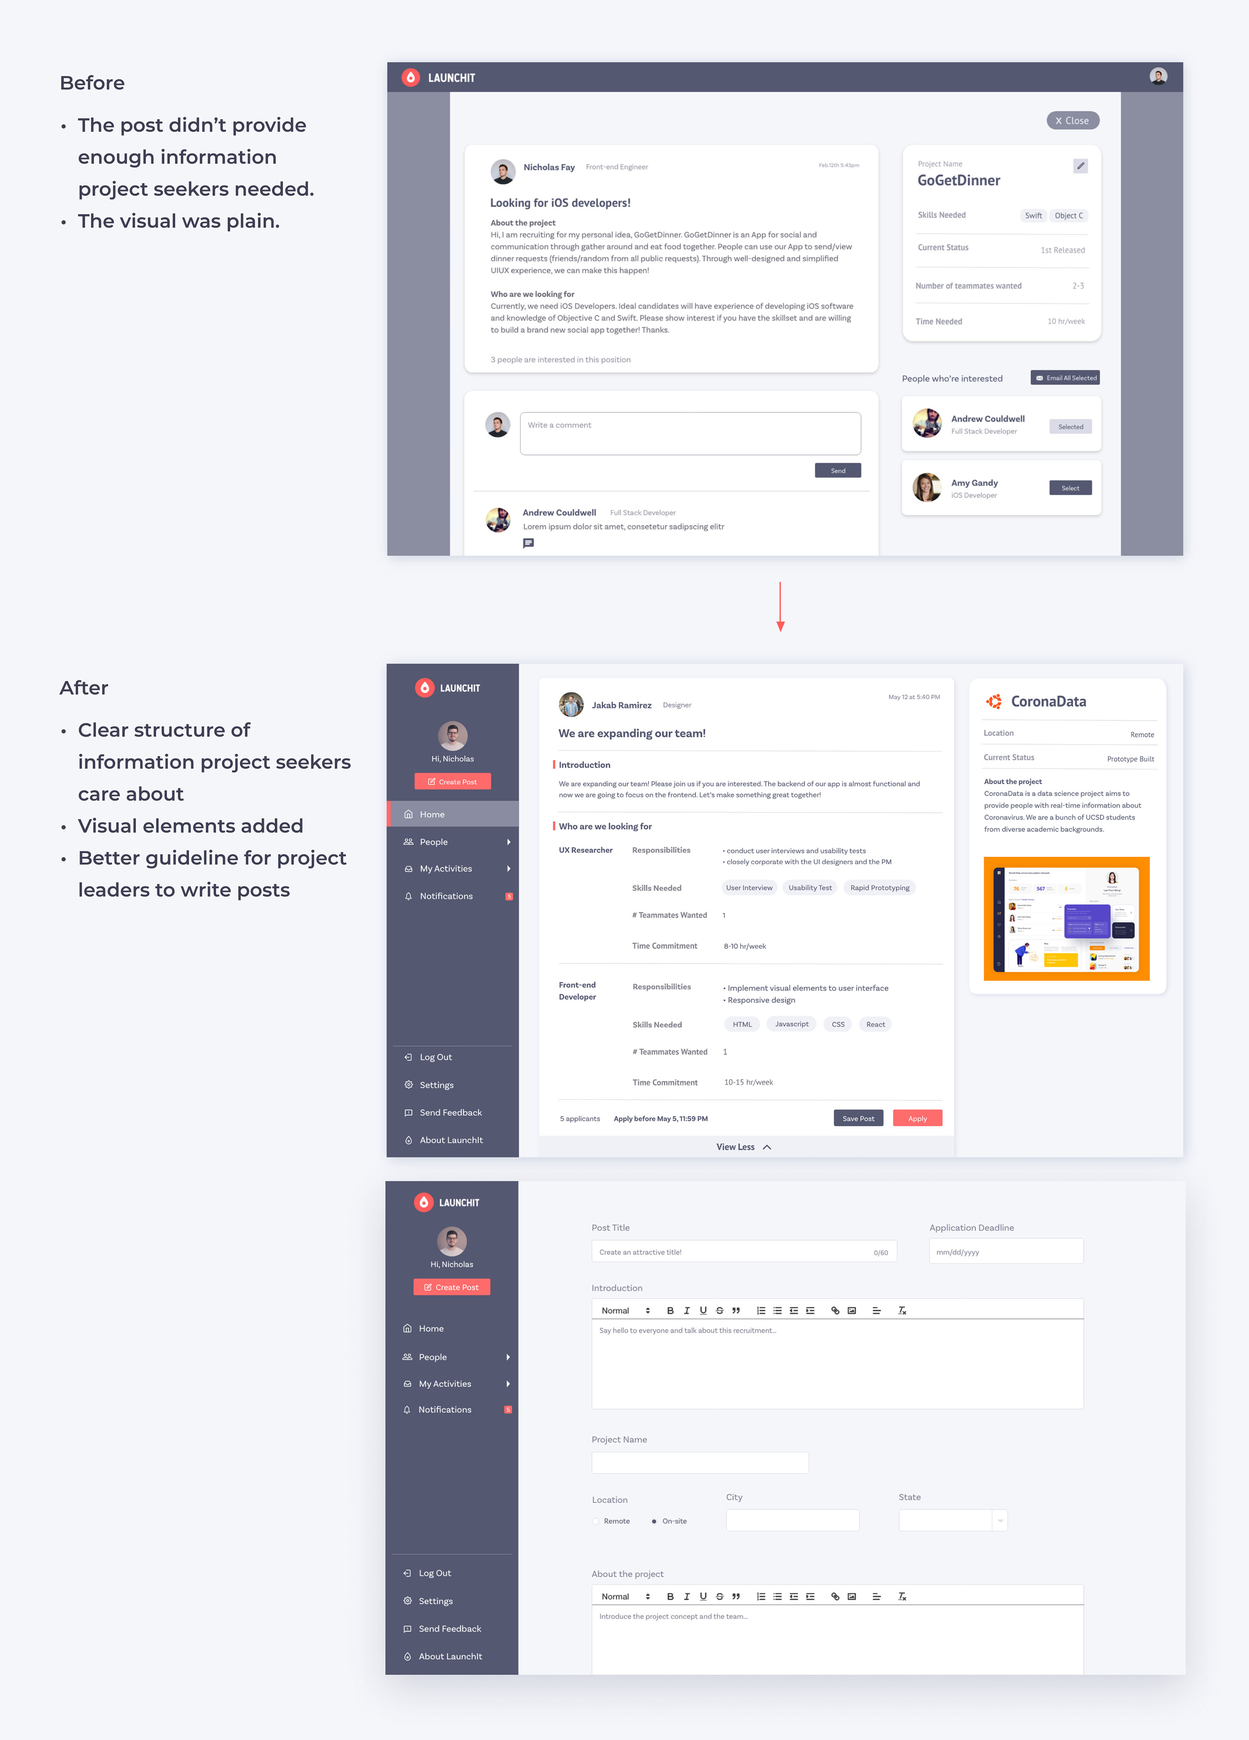
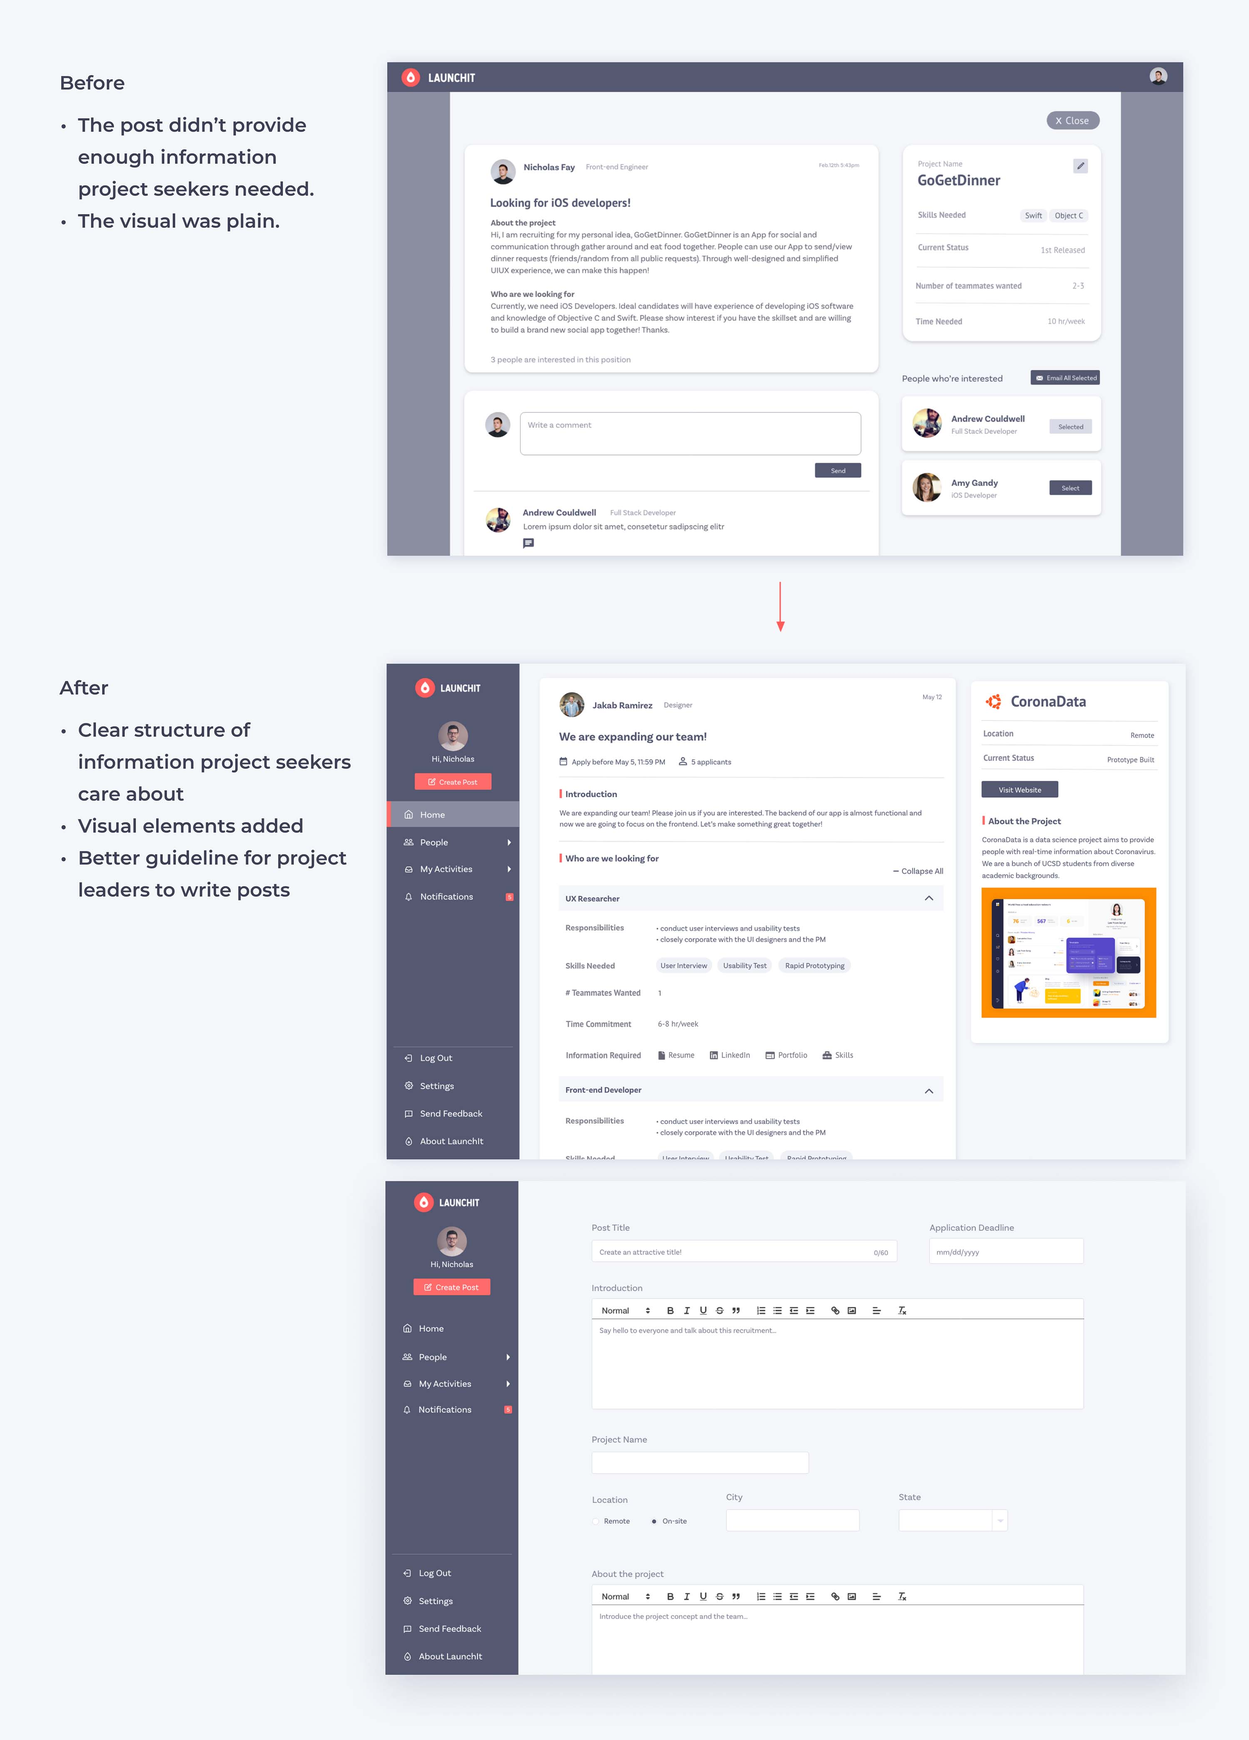
launchit and alpha updated

diff --git a/launchit.html b/launchit.html
@@ -137,7 +137,7 @@
 
                     <div class="block">
                         <p id="section-title">user interviews</p>
-                        <h2 id="subtitle2">Problems faced by college students</h2>
+                        <h2 id="subtitle2">Learn about our target users</h2>
                         <p>I worked with my fellow designer to interview 6 college students with different academic backgrounds, asking about their decision-making process when seeking projects to join or recruiting people for their projects. We also asked them to explore LaunchIt and provide feedback so we could start with minor design changes.</p>
                         <img src="image/launchit_user_interview.jpg" alt="interview findings" width="100%">
                     </div>
@@ -152,7 +152,7 @@
 
                     <div class="block">
                         <p id="section-title">usability tests</p>
-                        <h2 id="subtitle2">Research goals</h2>
+                        <h2 id="subtitle2">Set the research goals</h2>
                         <p>To further understand the gap between users' goals and our initial design, we decided to conduct usability tests. We set up three research goals:</p>
                         <ul>
                             <li>Is the user flow intuitive? </li>
@@ -170,50 +170,55 @@
                         <img src="image/launchit_task_priority.jpg" alt="effort vs impact matrix and process tracking" width="100%" style="padding-top: 0; margin-bottom: 0;">
                     </div>
 
+                    
                     <div class="block">
                         <p id="section-title">usability tests</p>
                         <h2 id="subtitle2">Turn insights into decisions</h2>
-                    </div>
-                    
-                    <img class="mx-auto d-block small-img" src="image/launchit_p1.jpg" alt="ui">
-                    <div class="block">
-                        <p>There are two navigation bars in the original version, one on the top and one on the left. We found that having two navigation bars distracted users during the usability tests, so we decided to put all navigation components on one side bar. We designed at least 5 versions of navigation bars and conducted mini usability tests to find out which one is the most intuitive. I realized that users’ conceptual models on navigation are very different from mine since many users favored the version that I didn’t think would work at first.</p>
-                        <br>
-                        <img src="image/launchit_nav.jpg" alt="iterated on navigation" width="100%">
-                    </div>
-                    
 
-                    <img class="mx-auto d-block small-img" src="image/launchit_p2.jpg" alt="ui">
-                    <div class="block">
-                        <p>When signing up for the first time, users are only asked to fill out some basic information. At the last step of signing up, they have the freedom to choose to either complete their profiles or skip this part for now. If they choose to skip, the system will later encourage them to complete profiles when they apply for project positions. The profile page also shows their level of completion to increase their motivation.</p>
-                        <br>
-                        <img src="image/launchit_profile.jpg" alt="user profile" width="100%">
-                    </div>
-                    
-
-                    <img class="mx-auto d-block small-img" src="image/launchit_p3.jpg" alt="ui">
-                    <div class="block">
-                        <p>We reorganized the page of post details by clearly dividing project information and recruitment information into two cards. Readers can easily find all available positions under this project and their corresponding responsibilities and qualifications. In response to user needs, we also guide post creators to list out the duties of each position using bullet points rather than inputting big chunks of paragraphs that are less readable. In addition, they can add project logos and images to introduce their projects and teams better.</p>
-                        <br>
-                        <img src="image/launchit_post.jpg" alt="findings" width="100%">
-                    </div>
-                    
-                    
-
-                    <img class="mx-auto d-block small-img" src="image/launchit_p4.jpg" alt="ui">
-                    <div class="block">
-                        <p>Project recruitment used to be considerably complex, as project leaders needed to employ different tools during the process, such as Google Form, Facebook, and Excel. We created a function for project leaders to manage applicants on one page. They can see all applicants’ information on this page from the applicant list. They can modify their application status and contact them via email. Click on a title in the first row, and the system will reorder the list based on that title.</p>
-                        <br>
-                        <img src="image/launchit_phase3_4.jpg" alt="findings" width="100%">
-                    </div>
-
-                    <img class="mx-auto d-block small-img" src="image/launchit_p5.jpg" alt="ui">
-                    <div class="block">
-                        <p>The first-time users could not get what LuanchIt was for immediately. The PM suggested adding a documentation to introduce all functions of LaunchIt, but I believed that users wouldn't have patience to read through it. Therefore, I designed a concise and eye-catching introduction to the key features and a short step-by-step tutorial.</p>
+                        <p><b id="toogether-highlight">&#128064; Finding 1:</b></p>
+                        <p>The first-time users could not get what LuanchIt was for immediately.  </p>
+                        <p><b id="toogether-highlight">&#128161; Solution 1:</b></p>
+                        <p>The PM suggested adding documentation to introduce all functions of LaunchIt, but I believed that users wouldn't have the patience to read through it. Therefore, I designed a concise and eye-catching introduction to the key features and a short step-by-step tutorial.</p>
                         <br>
                         <img src="image/launchit_feature_0.jpg" alt="onboarding ui" width="100%">
                         <img src="image/launchit_tutorial.jpg" alt="tutorial ui" width="100%">
+                        
+                        <br><br><br>
+                        <p><b id="toogether-highlight">&#128064; Finding 2:</b></p>
+                        <p>Having both a vertical and a horizontal navigation bars made it hard to navigate.</p>
+                        <p><b id="toogether-highlight">&#128161; Solution 2:</b></p>
+                        <p>We combined them into one navigation bar, explored 5 variations of information hierarchies, and tested them with users to find out which one was the most intuitive. Users’ mental models were very different from mine since many favored the version that I didn’t think would work at first.</p>
+                        <br>
+                        <img src="image/launchit_nav.jpg" alt="iterated on navigation" width="100%">
+                        
+                        <br><br><br>
+                        <p><b id="toogether-highlight">&#128064; Finding 3:</b></p>
+                        <p>Although complete profiles were crucial for users to connect with each other, they were reluctant to fill in their profiles during the onboarding.</p>
+                        <p><b id="toogether-highlight">&#128161; Solution 3:</b></p>
+                        <p>When signing up for the first time, users are only asked to fill out some basic information. At the last step of signing up, they have the freedom to choose to either complete their profiles or skip this part for now. If they choose to skip, the system will later encourage them to complete profiles when they apply for project positions. The profile page also shows their level of completion to increase their motivation.</p>
+                        <br>
+                        <img src="image/launchit_profile.jpg" alt="user profile" width="100%">
+
+                        <br><br><br>
+                        <p><b id="toogether-highlight">&#128064; Finding 4:</b></p>
+                        <p>Users couldn't find all information they cared about on the post, such as time commitment and required skills. The large chunks of paragraphs were difficult to scan, and the visual design was plain.</p>
+                        <p><b id="toogether-highlight">&#128161; Solution 4:</b></p>
+                        <p>We restructured the post, dividing the general project introduction and recruitment information into two cards and eliminating large chunks of text. With a clear structure, project seekers could easily find all information that mattered to them. On the post creation page, we guided post creators to list the details of each position step by step. In addition, they can add project logos and images to introduce their projects and teams, making the post more visually attractive.</p>
+                        <br>
+                        <img src="image/launchit_post.jpg" alt="findings" width="100%">
+
+                        <br><br><br>
+                        <p><b id="toogether-highlight">&#128064; Finding 5:</b></p>
+                        <p>The recruitment process used to be complicated. Project leaders needed to switch between tools, such as Google Forms, Emails, and Excel. </p>
+                        <p><b id="toogether-highlight">&#128161; Solution 5:</b></p>
+                        <p>We enabled project leaders to manage applicants on one page. They could view all applicants' information on this page, modify their status, and contact them directly. They could also sort the list based by clicking the column titles.</p>
+                        <br>
+                        <img src="image/launchit_phase3_4.jpg" alt="findings" width="100%">
+
+                        
+                        
                     </div>
+                    
                     
 
                     <div class="block">

diff --git a/alpha-hanger.html b/alpha-hanger.html
@@ -31,7 +31,7 @@
                 </div>
             </div>
 
-            <div class="project-body">
+            <div class="project-body alpha">
                 
                 <!-- content -->
                 <div class="content">
@@ -89,55 +89,97 @@
 
                     <!-- detail -->
                     <div class="block">
-                        <h2 id="subtitle2">UNDERSTAND THE USERS</h2>
+                        <h2 id="subtitle2">understand my clients</h2>
+                        <p><b id="toogether-highlight">Context</b></p>
+                        <p>Most dry-cleaning equipment manufacturers rely on agencies to acquire new customers. Alpha Hanger is transforming into digital marketing as a leading company in this industry.</p>
+                        <br>
+                        <p><b id="toogether-highlight">Business Goal</b></p>
+                        <p>Alpha Hanger needs to build their first official website to increase its customer base.</p>
+                        <br>
+                        <p><b id="toogether-highlight">Pain Points</b></p>
+                        <ul>
+                            <li>Competitors are mimicking the company's brand.</li>
+                            <li>Alpha Hanger relies on email to communicate with its customers, which is time-consuming.</li>
+                        </ul>
+
+                    </div>
+
+                    <div class="block">
+                        <h2 id="subtitle2">understand the users</h2>
                         <div class="container-fluid">
                             <div class="row">
+                                <div class="col-sm-8" style="padding:0">
+                                    <p><b id="toogether-highlight">Primary User</b></p>
+                                    <p>End customers with an age range of 30 to 80, mainly located in the United States</p>
+                                    <br>
+                                    <p><b id="toogether-highlight">User Needs</b></p>
+                                    <ul>
+                                        <li>Learn about the company's reputation, services, and technology</li>
+                                        <li>Learn what products are available and be able to make an inquiry easily</li>
+                                        <li>Communicate with the company to negotiate the price and customize products if needed</li>
+                                    </ul>
+                                    
+                                    <br>
+                                    <p><b id="toogether-highlight">Design Insights Based On The User Group</b></p>
+                                    <ul>
+                                        <li>The visual design needs to be unqiue to increase brand awareness.</li>
+                                        <li>The navigation and structure need to be easily understood by the elderly population.</li>
+                                    </ul>
+                                </div>
                                 <div class="col-sm-4">
                                     <img src="image/alphahanger_user.jpg" alt="agent in the U.S. age 30-80" width="100%" style="margin-bottom: 0;">
-                                </div>
-                                <div class="col-sm-8" style="padding-top: 8vh;">
-                                    <p><b>Design insights based on the user group:</b></p>
-                                    <ul>
-                                        <li>The website's system model needs to be easily understood by the elderly population, while the visuals can be innovative.</li>
-                                        <li>Texts need to be readable for the elderly population.</li>
-                                        <li>Pay attention to color contrast.</li>
-                                    </ul>
                                 </div>
                             </div>
                         </div>
                     </div>
 
                     <div class="block">
-                        <h2 id="subtitle2">CHARACTERISTICS & STYLES</h2>
+                        <h2 id="subtitle2">Brand characteristics and general style guide</h2>
                         <p>Together with my client, we identified five brand characteristics: <span style="color: #EE4949; font-weight: bold;">trustworthy, friendly, vigorous, high-quality, and large-scale </span>. Based on the characteristics and existing branding, I determined the colors and fonts for the website. I extracted the primary and secondary colors from the company's logo and slightly altered the hue and saturation. I chose Montserrat for titles since this font family delivers a sense of being reliable and professional.</p>
                         <img src="image/alphahanger_style.jpg" alt="style guide" width="100%" style="margin-bottom: 0;">
                     </div>
 
                     <div class="block">
-                        <h2 id="subtitle2">MOOD BOARD & IMAGE STYLE GUIDES</h2>
+                        <h2 id="subtitle2">Image style guide</h2>
                         <p>The photo collage serves as a guide for image selection on the website. It demonstrates the moods delivered by images, image content, and image quality. </p>
                         <img src="image/alphahanger_moodboard.jpg" alt="style guide" width="100%" style="margin-bottom: 3vh;">
-                        <p>There is always a gap between expectation and reality. When discussing this part with my client, they informed me that they could not provide me with high-quality images due to a lack of professional devices and photographers. To overcome this issue, I guided the factory workers in Cambodia to shoot the best photos with what they had. I suggested they use the latest version of the iPhone and wrote detailed instructions on photography composition. The result turned out to be satisfactory. </p>
+                        <p>There is always a gap between expectation and reality. When discussing this part with my client, they informed me that they could not provide me with high-quality images due to a lack of professional devices and photographers. To overcome this issue, I guided the factory workers remotely to shoot the best photos with what they had. I suggested they use the latest version of the iPhone and wrote detailed instructions on photography composition. The result turned out to be satisfactory. </p>
                     </div>
 
                     <div class="block">
-                        <h2 id="subtitle2">WIREFRAME</h2>
+                        <h2 id="subtitle2">Wireframes</h2>
                         <p>I presented my client with a wireframe to collect feedback on website structure, information hierarchy, and navigation.</p>
                     </div>
                     <img src="image/alphahanger_wireframe.jpg" alt="wireframe" width="100%">
 
                     <div class="block" style="padding-bottom: 3vh;">
-                        <h2 id="subtitle2">HOMEPAGE DESIGN</h2>
+                        <h2 id="subtitle2">Homepage Design</h2>
                         <p>The homepage is crucial in delivering the right messages to users at the first glimpse. I proposed three homepage designs to my client. I personally preferred the first two options, but unexpectedly, my client considered the last one the best. To better understand their thoughts, I asked them to list the pros and cons of each design. I later realized that they have a logic behind their choice that I did not discover earlier. There are three things they cared about the most: <span style="color: #EE4949; font-weight: bold;">displaying the images of their factory and products, having a unique style, and being perceived as reliable and professional.</span> Based on the synthesis, I designed an optimized version that met their needs and was eventually adopted.
                         </p>
                     </div>
                     <img src="image/alphahanger_homepage.jpg" alt="homepage" width="100%" style="margin-bottom: 0;">
                     <img src="image/alphahanger_homepage2.jpg" alt="homepage" width="100%">
 
+                    <div class="block" style="padding-bottom: 3vh;">
+                        <h2 id="subtitle2">Product and order request</h2>
+                        <div class="container-fluid">
+                            <div class="row">
+                                <div class="col-sm-7" style="padding-left:0; padding-right: 50px;">
+                                    <img src="image/alphahanger_product.jpg" alt="product and order page" width="100%">
+                                </div>
+                                <div class="col-sm-5">
+                                    <p>There was insufficient budget and capacity to replace email with a new messaging system. To reduce customer service workload, I aimed to improve communication by providing users with detailed information about all products and guiding them to send their order requests with specific requirements. This helped to reduce repetitive contact over basic information and enabled customer service to focus on essential conversations.</p>
+                                </div>
+                              
+                            </div>
+                        </div>
+                        <br>
+                        
+                    </div>
 
                     <div class="block">
-                        <h2 id="subtitle2">FINAL DELIVERABLE</h2>
-                        <p>I created a high-fidelity prototype and delivered it to the developer. I assisted him during the developing process to provide everything he needed and ensure the website matched my design.</p>
+                        <h2 id="subtitle2">final deliverable</h2>
+                        <p>I created a high-fidelity prototype and handed over it to the developer. I assisted him during the developement process, providing everything he needed and ensuring the website matched my design.</p>
                     </div>
                     
                     <img src="image/alphahanger1.jpg" alt="" width="100%" style="margin: 0 !important;">

diff --git a/style.css b/style.css
@@ -757,6 +757,24 @@ body{
     text-transform: capitalize;
 }
 
+.alpha #section-title{
+    font-weight: 500;
+    color: #767676;
+    font-size: 18px;
+    letter-spacing: 0.01em;
+    margin-bottom: 0.4em;
+    text-transform: capitalize;
+}
+
+.alpha #subtitle2{
+    color: #272727;
+    font-weight: bold;
+    font-size: 28px;
+    margin-bottom: 1.5em;
+    letter-spacing: 0.01em;
+    text-transform: capitalize;
+}
+
     #section-title{
     font-weight: 500;
     color: #767676;
